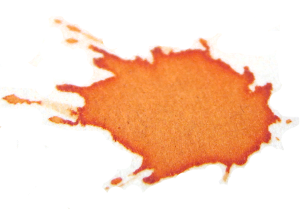
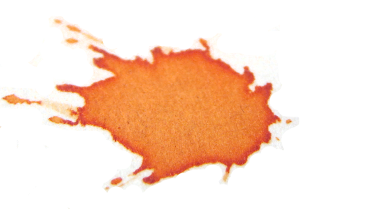
Decoration smudges for the fron page

diff --git a/app/assets/stylesheets/front.css.scss b/app/assets/stylesheets/front.css.scss
@@ -1,7 +1,7 @@
 .front {
   #main_header {
     text-align: center;
-    padding: 6em 0;
+    margin: 3em 0 0;
   }
 
   #brand {
@@ -20,20 +20,22 @@
 
   #main_menu {
     position: relative;
-    margin: 1em 0 0;
+    @include clearfix;
+
+    div {
+      width: 50%;
+      float: left;
+    }
 
     a {
-      width: 5.5em;
       @include inline-block;
-      margin: 0.25em 1.3em;
-      padding: 0.25em;
-      @include border-radius(0.5em);
+      padding: 1.6em 3em 1.3em;
     }
 
     i {
       width: 100%;
       position: absolute;
-      top: -1em;
+      top: -0.25em;
       left: 0;
     }
   }

diff --git a/app/assets/stylesheets/backgrounds.css.scss b/app/assets/stylesheets/backgrounds.css.scss
@@ -38,13 +38,19 @@ div.fields {
 
 /* Només per a la pàgina d'inici */
 body.dashboards.front {
+  #wrapper {
+    background: transparent image-url('taca_sostre_front.png') top left no-repeat;
+    background-size: contain;
+  }
+
   #main_menu a {
     &.action {
-      background: #e88717;
+      background: transparent image-url('taca_action.png') no-repeat 50% 50%;
+      background-size: 100% 100%;
     }
 
     &.visual {
-      background: #2d63be;
+      background: transparent;
     }
   }
 }

diff --git a/app/models/concerns/has_tags.rb b/app/models/concerns/has_tags.rb
@@ -6,7 +6,6 @@ module HasTags
     attr_reader :tag_tokens
     has_many :taggings, as: :taggable, dependent: :destroy
     has_many :tags, through: :taggings
-    #before_validation :destroy_taggings
   end
 
   def tag_tokens=(tokens)
